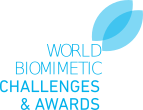
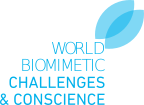
Refinant la marca Conscience.

diff --git a/_layouts/person.html b/_layouts/person.html
@@ -29,6 +29,9 @@ layout: default
       {% if page.class == "conferences" %}
       <li><a href="{{ site.base_url }}/#schedule">Schedule</a></li>
       {% endif %}
+      {% if page.class == "videos" %}
+      <li><a href="{{ site.base_url }}/videos/">Videos</a></li>
+      {% endif %}
       <li class="active">{% if page.class == "newsarticle" %}"{{page.title | truncate: 70 }}..."{% else %}{{ page.title }}{% endif %}</li>
     </ol>
     {{ content }}

diff --git a/_includes/footer.html b/_includes/footer.html
@@ -25,6 +25,7 @@
           <ul class="footer-nav">
             <li class="footer-nav-item"><a href="/#contacts">Contact</a></li>
             <li class="footer-nav-item"><a href="/privacy-policy/">Privacy policy</a></li>
+            <li class="footer-nav-item"><a href="/videos/">Videos</a></li>
             <li class="footer-nav-item"><a href="/press-release/">Press</a></li>
           </ul>
         </div>

diff --git a/_posts/2016-03-11-zoubeir-azouz.md b/_posts/2016-03-11-zoubeir-azouz.md
@@ -7,6 +7,7 @@ share: true
 class: advisors
 og: true
 advisor: 08
+video: 1
 og-type: article
 twitter: "@zoubeirazouz"
 ---
@@ -18,4 +19,17 @@ twitter: "@zoubeirazouz"
 	<h3 class="name">{{ advisor.name }}</h3>
 	<p class="text-alt"><small><strong>{{ advisor.jobTitle }}</strong><br/><a href="{{ advisor.worksFor.url }}" title="{{ advisor.worksFor.name }}">{{ advisor.worksFor.name }}</a></small></p>
 	<p class="about text-left">{{ advisor.description}} </p>
+{% assign video_data = site.data.videos | where:"id", page.video %}
+{% assign video = video_data | first %}
+<figure class="no-margin margin-bottom-1">
+    <div class="embed-container embed-container_{{ video.aspect-ratio }}">
+        <video id="teaser" controls preload="auto" poster="{{ video.path }}{{ video.poster }}">
+            <source src="{{ video.path }}{{ video.source-webm}}" type='video/webm; codecs="vorbis,vp8"'>
+            <source src="{{ video.path }}{{ video.source-mp4 }}" type='video/mp4; codecs="aac,h264"'>
+        </video>
+    </div>
+    <figcaption>
+      <p><small><strong>{{ video.title }}</strong></small></p>
+    </figcaption>
+</figure>
 </div>
